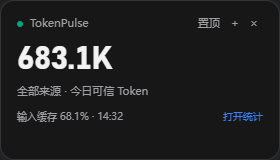
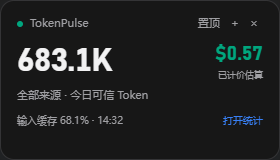
design: add scoped cost estimates to floating windows

diff --git a/prototypes/token-pulse-ui.html b/prototypes/token-pulse-ui.html
@@ -11,6 +11,7 @@
 :root{--bg:#e9e9eb;--panel:#fff;--sub:#f3f3f4;--ink:#242426;--muted:#727277;--line:#e0e0e3;--blue:#347cf5;--blue-soft:#edf3ff;--green:#009f78}
 .theme-dark{--bg:#202020;--panel:#171717;--sub:#242424;--ink:#f2f2f3;--muted:#a0a0a4;--line:#343436;--blue:#3880f6;--blue-soft:#23334d;--cache:#78a7fa;--output:#a4a6ad;--green:#00a67e;--amber:#d9b16d;--warn:#342d21;--shadow:0 16px 50px #0002}
 .desktop{border-color:var(--line);box-shadow:none}.main{background:var(--bg)}.panel{border-radius:14px}.nav button.active{background:#087dc7;color:#fff}.cost-number{color:var(--green);font-weight:650}.big-number{font-weight:650}.theme-dark button.primary{color:#fff}.theme-dark .pulse{color:#fff}.theme-dark .pill.live{background:#15342a;color:#24b893}.theme-dark .drawer,.theme-dark .modal{background:#202020}.theme-dark select,.theme-dark input{background:var(--sub)}.theme-dark .notice{border:1px solid #4a3d27}.theme-dark .segments button.active{background:#333335;color:var(--ink);box-shadow:none}.floating{border-color:var(--line);border-radius:14px}.float-number{font-weight:650}.nav-label{display:inline}
+.float-metrics{display:flex;align-items:center;justify-content:space-between;gap:10px;margin:8px 0 5px}.float-metrics .float-number{margin:0;min-width:0}.float-cost{border:0;background:transparent;padding:0;text-align:right;flex-shrink:0;max-width:100px}.float-cost-value{display:block;color:var(--green);font-size:20px;font-weight:650;line-height:1.2;overflow-wrap:anywhere}.float-cost-label{display:block;color:var(--muted);font-size:9px;line-height:1.4;margin-top:3px}.float-cost:hover{background:transparent}.floating.expanded .float-cost-value{font-size:22px}
 </style>
 </head>
 <body class="theme-dark">
@@ -87,10 +88,10 @@ function render(){renderNav();renderFilters();$('page-title').textContent=pages[
 let lastFocus=null;function openModal(title,body,actions=''){lastFocus=document.activeElement;$('overlays').innerHTML=`<div class="backdrop" data-backdrop="true"><section class="modal" role="dialog" aria-modal="true" aria-labelledby="dialog-title"><div class="modal-head"><h2 id="dialog-title">${title}</h2><button class="ghost small" data-action="dismiss" aria-label="关闭对话框">×</button></div>${body}<div class="modal-actions"><button data-action="dismiss">关闭</button>${actions}</div></section></div>`;protectSensitive();requestAnimationFrame(()=>$('overlays').querySelector('input,select,button')?.focus());}
 function protectSensitive(){if(!state.privacy)return;document.querySelectorAll('.sensitive').forEach(el=>el.textContent='已隐藏');document.querySelectorAll('[data-session][aria-label]').forEach(el=>el.setAttribute('aria-label','查看会话统计'));}function dismiss(){$('overlays').innerHTML='';lastFocus?.focus();}
 function openSession(id){const s=sessionDefs.find(s=>s.id===id),rows=filtered().filter(e=>e.session.id===id),a=sum(rows);lastFocus=document.activeElement;$('overlays').innerHTML=`<div class="backdrop" data-backdrop="true"></div><aside class="drawer" role="dialog" aria-modal="true" aria-labelledby="dialog-title"><div class="modal-head"><h2 id="dialog-title">会话详情</h2><button class="ghost" data-action="dismiss" aria-label="关闭会话详情">×</button></div><h2 class="sensitive">${esc(s.name)}</h2><p class="muted sensitive" style="font-size:12px;margin:7px 0 25px">${esc(s.project)}</p><span class="metric-label">所选日期范围累计消耗</span><div class="big-number num">${compact(a.total)}<span>Token</span></div>${composition(a)}<section class="context"><h3>最近请求上下文</h3><div class="num" style="font-size:28px;margin-top:9px">${compact(s.context)} <span class="muted" style="font-size:12px">${s.window?'/ '+compact(s.window):'· 窗口容量未知'}</span></div>${s.window?`<div class="progress" style="margin-top:10px"><span style="width:${s.context/s.window*100}%"></span></div>`:''}<p class="support-note">${s.window?'占模型窗口 '+percent(s.context,s.window)+'。':'缺少可信容量，不展示占用百分比。'}<br>快照：2026-10-01 14:12 · 来自最近请求记录<br>此快照与累计消耗分别计算。</p></section><section><h3>会话信息</h3><dl><dt>模型</dt><dd>${s.model}</dd><dt>来源</dt><dd>${s.source}</dd><dt>项目路径</dt><dd class="sensitive">${esc(s.path||'未知')}</dd><dt>父会话</dt><dd class="sensitive">${s.parent?'修复会话恢复逻辑':'无已记录父会话'}</dd><dt>用户回合</dt><dd>${s.turns??'未知'}</dd></dl></section><section><h3>最近用量事件</h3>${rows.slice(-3).reverse().map(e=>`<div class="setting-row"><div><span class="num">${e.hour}:${e.minute}</span><p>${e.basis} · 输出含推理 ${compact(e.reasoning)}</p></div><span class="num">${compact(e.total)}</span></div>`).join('')}</section><button class="small" data-action="locate-log" style="margin-top:25px">定位来源日志</button></aside>`;protectSensitive();requestAnimationFrame(()=>$('overlays').querySelector('button')?.focus());}
-function renderFloat(){const rows=events.filter(e=>e.date==='2026-10-01'&&(state.pinned==='all'||e.session.id===state.pinned)),a=['empty','zero'].includes(state.demo)?sum([]):sum(rows),s=sessionDefs.find(s=>s.id===state.pinned);$('floating-stage').innerHTML=`<section class="floating ${state.expanded?'expanded':''}" aria-label="悬浮小窗预览"><div class="float-head" id="float-drag"><span><span class="dot"></span>${state.demo==='stale'?'部分来源待恢复':state.demo==='loading'?'历史导入中':'TokenPulse'}</span><div class="float-actions"><button data-action="pin-window" aria-label="切换悬浮窗置顶">${preferences['悬浮窗置顶']?'置顶':'未置顶'}</button><button data-action="expand-float" aria-label="${state.expanded?'收起':'展开'}悬浮窗">${state.expanded?'−':'+'}</button><button data-action="hide-float" aria-label="隐藏悬浮窗">×</button></div></div><button class="float-number num" data-action="float-breakdown" title="${full(a.total)} Token">${state.demo==='empty'?'选择目录':compact(a.total)}</button><span class="float-scope ${s?'sensitive':''}">${state.demo==='empty'?'未配置来源':s?esc(s.project)+' · 今日会话消耗':'全部来源 · 今日可信 Token'}</span><div class="float-bottom"><span>输入缓存 ${percent(a.cache,a.input)} · ${state.demo==='stale'?'13:58':'14:32'}</span><button data-action="open-from-float">打开统计</button></div>${state.expanded?`<div class="float-more">${composition(a)}<select id="pin-session" aria-label="固定会话"><option value="all">全部来源 · 今日用量</option>${sessionDefs.map(s=>`<option value="${s.id}" ${state.pinned===s.id?'selected':''}>固定：${state.privacy?'会话 '+s.id:esc(s.project)}</option>`).join('')}</select><p>${s?'固定会话 · 消耗起点为今日 00:00':'最近记录 14:12 · 无新记录仍保持采集'}</p></div>`:''}</section>`;const handle=$('float-drag');handle.onpointerdown=(e)=>{if(e.target.closest('button'))return;const el=$('floating-stage'),r=el.getBoundingClientRect(),dx=e.clientX-r.left,dy=e.clientY-r.top;handle.setPointerCapture(e.pointerId);handle.onpointermove=(ev)=>{el.style.left=Math.max(0,Math.min(innerWidth-el.offsetWidth,ev.clientX-dx))+'px';el.style.top=Math.max(0,Math.min(innerHeight-el.offsetHeight,ev.clientY-dy))+'px';el.style.right='auto';el.style.bottom='auto';};handle.onpointerup=()=>{handle.onpointermove=null;};};}
+function renderFloat(){const rows=events.filter(e=>e.date==='2026-10-01'&&(state.pinned==='all'||e.session.id===state.pinned)),a=['empty','zero'].includes(state.demo)?sum([]):sum(rows),s=sessionDefs.find(s=>s.id===state.pinned);$('floating-stage').innerHTML=`<section class="floating ${state.expanded?'expanded':''}" aria-label="悬浮小窗预览"><div class="float-head" id="float-drag"><span><span class="dot"></span>${state.demo==='stale'?'部分来源待恢复':state.demo==='loading'?'历史导入中':'TokenPulse'}</span><div class="float-actions"><button data-action="pin-window" aria-label="切换悬浮窗置顶">${preferences['悬浮窗置顶']?'置顶':'未置顶'}</button><button data-action="expand-float" aria-label="${state.expanded?'收起':'展开'}悬浮窗">${state.expanded?'−':'+'}</button><button data-action="hide-float" aria-label="隐藏悬浮窗">×</button></div></div><div class="float-metrics"><button class="float-number num" data-action="float-breakdown" title="${full(a.total)} Token">${state.demo==='empty'?'选择目录':compact(a.total)}</button><button class="float-cost cost-sensitive" data-action="float-price" ${state.demo==='empty'?'disabled':''} title="${state.demo==='empty'?'尚未配置来源':a.unpriced&&a.unpriced===a.total?'所有用量均缺少价格规则':'价格覆盖 '+percent(a.total-a.unpriced,a.total)+'；未计价 '+full(a.unpriced)+' Token'}"><span class="float-cost-value num">${state.demo==='empty'?'—':a.total&&a.unpriced===a.total?'未计价':money(a.cost)}</span><span class="float-cost-label">已计价估算</span></button></div><span class="float-scope ${s?'sensitive':''}">${state.demo==='empty'?'未配置来源':s?esc(s.project)+' · 今日会话消耗':'全部来源 · 今日可信 Token'}</span><div class="float-bottom"><span>输入缓存 ${percent(a.cache,a.input)} · ${state.demo==='stale'?'13:58':'14:32'}</span><button data-action="open-from-float">打开统计</button></div>${state.expanded?`<div class="float-more">${composition(a)}<select id="pin-session" aria-label="固定会话"><option value="all">全部来源 · 今日用量</option>${sessionDefs.map(s=>`<option value="${s.id}" ${state.pinned===s.id?'selected':''}>固定：${state.privacy?'会话 '+s.id:esc(s.project)}</option>`).join('')}</select><p>${s?'固定会话 · 消耗起点为今日 00:00':'最近记录 14:12 · 无新记录仍保持采集'}</p></div>`:''}</section>`;protectSensitive();const handle=$('float-drag');handle.onpointerdown=(e)=>{if(e.target.closest('button'))return;const el=$('floating-stage'),r=el.getBoundingClientRect(),dx=e.clientX-r.left,dy=e.clientY-r.top;handle.setPointerCapture(e.pointerId);handle.onpointermove=(ev)=>{el.style.left=Math.max(0,Math.min(innerWidth-el.offsetWidth,ev.clientX-dx))+'px';el.style.top=Math.max(0,Math.min(innerHeight-el.offsetHeight,ev.clientY-dy))+'px';el.style.right='auto';el.style.bottom='auto';};handle.onpointerup=()=>{handle.onpointermove=null;};};}
 function setTheme(value){state.theme=value;const dark=value==='dark'||value==='system'&&matchMedia('(prefers-color-scheme: dark)').matches;document.body.classList.toggle('theme-dark',dark);$('theme').textContent=dark?'浅色预览':'深色预览';render();}
 function exportFile(){const format=$('export-format').value,hide=$('hide-path').checked;const rows=filtered().map(e=>({timestamp:`${e.date}T${String(e.hour).padStart(2,'0')}:${e.minute}:00+08:00`,session_id:e.session.id,project:hide?'项目-'+e.session.id:e.session.project,project_path:hide?null:e.session.path,model:e.session.model,input_tokens_total:String(e.input),cached_input_tokens:String(e.cache),output_tokens_total:String(e.output),reasoning_output_tokens:String(e.reasoning),total_tokens:String(e.total),estimated_cost_usd:e.cost,unpriced:e.cost==null,price_rule_id:e.cost==null?null:'fictional-demo-rule',estimation_mode:'event_time',basis:e.basis}));let content,type;if(format==='json'){content=JSON.stringify({demo:true,timezone:'Asia/Shanghai',snapshot:'demo-2026-10-01-1432',parser_version:'prototype-fixture',filters:{period:state.period,start:state.start,end:state.end,source:state.source,model:state.model,project:state.project},rows},null,2);type='application/json';}else{const headers=Object.keys(rows[0]||{timestamp:'',total_tokens:''});const quote=v=>{let s=String(v??'');if(/^[=+@-]/.test(s))s="'"+s;return '"'+s.replace(/"/g,'""')+'"';};content='\uFEFF'+headers.join(',')+'\r\n'+rows.map(r=>headers.map(k=>quote(r[k])).join(',')).join('\r\n');type='text/csv;charset=utf-8';}const link=document.createElement('a');link.href=URL.createObjectURL(new Blob([content],{type}));link.download='token-pulse-demo.'+format;link.click();setTimeout(()=>URL.revokeObjectURL(link.href),1000);dismiss();toast(`已导出 ${rows.length} 条演示记录（${format.toUpperCase()}）`);}
-function action(a){switch(a){case'dismiss':dismiss();break;case'float':state.float=true;$('floating-stage').classList.remove('hidden');renderFloat();break;case'hide-float':state.float=false;$('floating-stage').classList.add('hidden');toast('悬浮窗已隐藏；正式应用中后台继续采集。');break;case'expand-float':state.expanded=!state.expanded;renderFloat();break;case'float-breakdown':if(state.demo==='empty'){action('add-source');break;}state.expanded=true;renderFloat();break;case'pin-window':preferences['悬浮窗置顶']=!preferences['悬浮窗置顶'];renderFloat();toast('置顶偏好已更新（预览）；原生置顶由桌面壳实现。');break;case'open-from-float':state.page=state.pinned==='all'?'overview':'sessions';state.period='today';state.source='all';state.model='all';state.project='all';render();if(state.pinned!=='all')openSession(state.pinned);break;case'reset':state.period='today';state.grain='hour';state.source=state.model=state.project='all';eventPage=1;render();break;case'refresh':$('refresh').textContent='正在核对…';$('refresh').disabled=true;setTimeout(()=>{$('refresh').textContent='核对来源';$('refresh').disabled=false;toast('演示核对完成。原型未访问本机日志。');},700);break;case'retry':state.demo='ready';$('demo-state').value='ready';render();toast('演示查询已恢复。');break;case'export':openModal('导出当前筛选',`<p>将导出 ${filtered().length} 条演示记录。日期、来源、模型和项目条件与当前页面一致。</p><label for="export-format">文件格式</label><select id="export-format"><option value="csv">CSV · 适合表格分析</option><option value="json">JSON · 包含口径与筛选信息</option></select><label><input type="checkbox" id="hide-path" ${state.privacy?'checked':''} style="width:auto"> 隐藏项目名称与路径</label><p>费用均使用虚构价格。JSON 包含时区、快照、价格规则与未计价标记；CSV 保留逐条口径与规则标记。</p>`,'<button class="primary" data-action="download">导出演示数据</button>');break;case'download':exportFile();break;case'cache-detail':openModal('输入缓存占比','<p>缓存占比 = 缓存输入 / 输入总数。</p><p>当前筛选：缓存 '+full(stats().cache)+' Token，输入总数 '+full(stats().input)+' Token，占比 '+percent(stats().cache,stats().input)+'。</p><p>缓存已经包含在输入总数中，不再次计入总量。</p>');break;case'prices':openModal('费用与价格依据','<p>费用表示已计价用量的等价价格估算。订阅实付和账户剩余额度不由本工具推断。</p><div class="notice">演示价格：输入 $1.20、缓存 $0.12、输出 $6.00 / 百万 Token。均为虚构系数。</div><p>非缓存输入 × 输入单价 + 缓存输入 × 缓存单价 + 输出总数 × 输出单价。</p><p>推理已包含在输出中，不再次计价。未知价格保持未计价，并保留在可信总量中。</p><p>正式应用展示：规则来源、生效时间、别名匹配、价格覆盖率和最近重算时间。</p>','<button class="primary" data-action="open-pricing">管理价格规则</button>');break;case'open-pricing':dismiss();state.page='settings';state.settingsTab='pricing';render();break;case'add-source':openModal('添加 Codex 数据来源','<p>原型仅演示目录确认步骤。正式应用使用系统目录选择器，再检测目录可读性与重复来源。</p><label for="source-path">Codex Home 路径</label><input id="source-path" placeholder="例如 C:/Users/你的用户名/.codex"><p>扫描 sessions 和 archived_sessions。不会读取 auth.json，也不会修改原始日志。</p>','<button class="primary" data-action="confirm-source">检测演示目录</button>');break;case'confirm-source':if(!$('source-path').value.trim()){$('source-path').setCustomValidity('请填写目录路径');$('source-path').reportValidity();return;}dismiss();state.demo='loading';$('demo-state').value='loading';state.page='diagnostics';render();toast('进入导入预览；未添加真实来源。');break;case'pause-source':sourcePaused=!sourcePaused;render();toast(sourcePaused?'演示来源已暂停；统计保留。':'演示来源已恢复。');break;case'check-source':toast('演示目录可读；未访问真实文件。');break;case'pause-import':importPaused=!importPaused;render();toast(importPaused?'演示导入已暂停。':'演示导入已继续。');break;case'remove-source':openModal('移除来源','<p>正式应用提供“停止采集并保留统计”和“清除本工具保存的该来源数据”两种选项。</p><p>任何选项均不会删除 Codex 原始日志。本原型仅展示影响范围。</p>');break;case'diagnostic-detail':openModal('计数歧义定位','<p class="sensitive">来源：Windows 本地 · token-pulse</p><dl><dt>文件代次</dt><dd>demo-generation-3</dd><dt>字节偏移</dt><dd>42,816</dd><dt>问题</dt><dd>累计值可匹配多个计数流，无法唯一确定新增用量。</dd></dl><p>待确认用量未计入总量。正式应用可定位文件、查看必要元数据或重新构建；原文采样默认关闭。</p>');break;case'rebuild':openModal('重建指定来源','<p>重新读取所选来源，验证候选结果后切换统计。重建期间仍可查看原结果。</p><label for="rebuild-source">数据来源</label><select id="rebuild-source"><option>Windows 本地</option><option>WSL · Ubuntu</option></select><p>原型演示任务反馈，不重读或写入任何真实文件。</p>','<button class="primary" data-action="confirm-rebuild">演示重建</button>');break;case'confirm-rebuild':dismiss();toast('演示重建已完成；原始日志未访问。');break;case'backup':openModal('创建备份','<p>正式应用通过一致备份保存统计库与配置，备份包含项目路径和统计记录。</p><p>原型尚未接入数据库，不生成真实备份。</p>');break;case'clear-data':openModal('清除数据的影响范围','<p>正式应用分别提供清除缓存、运行日志、诊断样本或全部统计数据的操作。</p><p>清除账本需要明确确认，并在安全停止任务后执行。显示设置恢复默认不清空统计。</p><p>本原型不会删除任何数据。</p>');break;case'passthrough':openModal('鼠标穿透与恢复','<p>启用后，点击将传递到悬浮窗下方的窗口。</p><p>正式应用先注册并校验恢复快捷键；若发生冲突，保留原状态并提示更换快捷键。托盘始终提供“恢复悬浮窗交互”。</p><p>浏览器原型只演示说明，无法实现系统级穿透。</p>');break;case'locate-log':toast('正式应用会定位来源文件；原型未打开真实日志。');break;case'prev-events':eventPage=Math.max(1,eventPage-1);render();break;case'next-events':eventPage++;render();break;case'close-main':case'minimize':toast('正式应用中窗口隐藏，后台采集继续；托盘提供恢复和退出。');break;case'maximize':toast('统计窗口默认 1280 × 860 DIP，最小 960 × 680 DIP。');break;}}
+function action(a){switch(a){case'dismiss':dismiss();break;case'float':state.float=true;$('floating-stage').classList.remove('hidden');renderFloat();break;case'hide-float':state.float=false;$('floating-stage').classList.add('hidden');toast('悬浮窗已隐藏；正式应用中后台继续采集。');break;case'expand-float':state.expanded=!state.expanded;renderFloat();break;case'float-breakdown':if(state.demo==='empty'){action('add-source');break;}state.expanded=true;renderFloat();break;case'pin-window':preferences['悬浮窗置顶']=!preferences['悬浮窗置顶'];renderFloat();toast('置顶偏好已更新（预览）；原生置顶由桌面壳实现。');break;case'open-from-float':state.page=state.pinned==='all'?'overview':'sessions';state.period='today';state.source='all';state.model='all';state.project='all';render();if(state.pinned!=='all')openSession(state.pinned);break;case'reset':state.period='today';state.grain='hour';state.source=state.model=state.project='all';eventPage=1;render();break;case'refresh':$('refresh').textContent='正在核对…';$('refresh').disabled=true;setTimeout(()=>{$('refresh').textContent='核对来源';$('refresh').disabled=false;toast('演示核对完成。原型未访问本机日志。');},700);break;case'retry':state.demo='ready';$('demo-state').value='ready';render();toast('演示查询已恢复。');break;case'export':openModal('导出当前筛选',`<p>将导出 ${filtered().length} 条演示记录。日期、来源、模型和项目条件与当前页面一致。</p><label for="export-format">文件格式</label><select id="export-format"><option value="csv">CSV · 适合表格分析</option><option value="json">JSON · 包含口径与筛选信息</option></select><label><input type="checkbox" id="hide-path" ${state.privacy?'checked':''} style="width:auto"> 隐藏项目名称与路径</label><p>费用均使用虚构价格。JSON 包含时区、快照、价格规则与未计价标记；CSV 保留逐条口径与规则标记。</p>`,'<button class="primary" data-action="download">导出演示数据</button>');break;case'download':exportFile();break;case'cache-detail':openModal('输入缓存占比','<p>缓存占比 = 缓存输入 / 输入总数。</p><p>当前筛选：缓存 '+full(stats().cache)+' Token，输入总数 '+full(stats().input)+' Token，占比 '+percent(stats().cache,stats().input)+'。</p><p>缓存已经包含在输入总数中，不再次计入总量。</p>');break;case'float-price':{const rows=events.filter(e=>e.date==='2026-10-01'&&(state.pinned==='all'||e.session.id===state.pinned)),a=state.demo==='zero'?sum([]):sum(rows),session=sessionDefs.find(x=>x.id===state.pinned);openModal('悬浮窗费用估算',`<p class="${session?'sensitive':''}">${session?esc(session.project)+' · 今日会话消耗':'全部来源 · 今日用量'}</p><p>已计价部分估算：<strong class="num cost-sensitive">${a.total&&a.unpriced===a.total?'未计价':money(a.cost)}</strong></p><p>价格覆盖 ${percent(a.total-a.unpriced,a.total)}；未计价 ${full(a.unpriced)} Token。</p><p>费用与悬浮窗中的用量采用同一统计范围。原型使用虚构价格，正式应用为等价价格估算。</p>`,'<button class="primary" data-action="open-pricing">管理价格规则</button>');break;}case'prices':openModal('费用与价格依据','<p>费用表示已计价用量的等价价格估算。订阅实付和账户剩余额度不由本工具推断。</p><div class="notice">演示价格：输入 $1.20、缓存 $0.12、输出 $6.00 / 百万 Token。均为虚构系数。</div><p>非缓存输入 × 输入单价 + 缓存输入 × 缓存单价 + 输出总数 × 输出单价。</p><p>推理已包含在输出中，不再次计价。未知价格保持未计价，并保留在可信总量中。</p><p>正式应用展示：规则来源、生效时间、别名匹配、价格覆盖率和最近重算时间。</p>','<button class="primary" data-action="open-pricing">管理价格规则</button>');break;case'open-pricing':dismiss();state.page='settings';state.settingsTab='pricing';render();break;case'add-source':openModal('添加 Codex 数据来源','<p>原型仅演示目录确认步骤。正式应用使用系统目录选择器，再检测目录可读性与重复来源。</p><label for="source-path">Codex Home 路径</label><input id="source-path" placeholder="例如 C:/Users/你的用户名/.codex"><p>扫描 sessions 和 archived_sessions。不会读取 auth.json，也不会修改原始日志。</p>','<button class="primary" data-action="confirm-source">检测演示目录</button>');break;case'confirm-source':if(!$('source-path').value.trim()){$('source-path').setCustomValidity('请填写目录路径');$('source-path').reportValidity();return;}dismiss();state.demo='loading';$('demo-state').value='loading';state.page='diagnostics';render();toast('进入导入预览；未添加真实来源。');break;case'pause-source':sourcePaused=!sourcePaused;render();toast(sourcePaused?'演示来源已暂停；统计保留。':'演示来源已恢复。');break;case'check-source':toast('演示目录可读；未访问真实文件。');break;case'pause-import':importPaused=!importPaused;render();toast(importPaused?'演示导入已暂停。':'演示导入已继续。');break;case'remove-source':openModal('移除来源','<p>正式应用提供“停止采集并保留统计”和“清除本工具保存的该来源数据”两种选项。</p><p>任何选项均不会删除 Codex 原始日志。本原型仅展示影响范围。</p>');break;case'diagnostic-detail':openModal('计数歧义定位','<p class="sensitive">来源：Windows 本地 · token-pulse</p><dl><dt>文件代次</dt><dd>demo-generation-3</dd><dt>字节偏移</dt><dd>42,816</dd><dt>问题</dt><dd>累计值可匹配多个计数流，无法唯一确定新增用量。</dd></dl><p>待确认用量未计入总量。正式应用可定位文件、查看必要元数据或重新构建；原文采样默认关闭。</p>');break;case'rebuild':openModal('重建指定来源','<p>重新读取所选来源，验证候选结果后切换统计。重建期间仍可查看原结果。</p><label for="rebuild-source">数据来源</label><select id="rebuild-source"><option>Windows 本地</option><option>WSL · Ubuntu</option></select><p>原型演示任务反馈，不重读或写入任何真实文件。</p>','<button class="primary" data-action="confirm-rebuild">演示重建</button>');break;case'confirm-rebuild':dismiss();toast('演示重建已完成；原始日志未访问。');break;case'backup':openModal('创建备份','<p>正式应用通过一致备份保存统计库与配置，备份包含项目路径和统计记录。</p><p>原型尚未接入数据库，不生成真实备份。</p>');break;case'clear-data':openModal('清除数据的影响范围','<p>正式应用分别提供清除缓存、运行日志、诊断样本或全部统计数据的操作。</p><p>清除账本需要明确确认，并在安全停止任务后执行。显示设置恢复默认不清空统计。</p><p>本原型不会删除任何数据。</p>');break;case'passthrough':openModal('鼠标穿透与恢复','<p>启用后，点击将传递到悬浮窗下方的窗口。</p><p>正式应用先注册并校验恢复快捷键；若发生冲突，保留原状态并提示更换快捷键。托盘始终提供“恢复悬浮窗交互”。</p><p>浏览器原型只演示说明，无法实现系统级穿透。</p>');break;case'locate-log':toast('正式应用会定位来源文件；原型未打开真实日志。');break;case'prev-events':eventPage=Math.max(1,eventPage-1);render();break;case'next-events':eventPage++;render();break;case'close-main':case'minimize':toast('正式应用中窗口隐藏，后台采集继续；托盘提供恢复和退出。');break;case'maximize':toast('统计窗口默认 1280 × 860 DIP，最小 960 × 680 DIP。');break;}}
 document.addEventListener('click',e=>{const t=e.target.closest('button,[data-session],[data-backdrop]');if(!t)return;if(t.dataset.backdrop){dismiss();return;}if(t.dataset.page){state.page=t.dataset.page;render();return;}if(t.dataset.session){openSession(t.dataset.session);return;}if(t.dataset.period){if(t.dataset.period==='custom'){openModal('自定义日期范围',`<label for="date-start">开始日期</label><input type="date" id="date-start" value="${state.start}" max="2026-10-01"><label for="date-end">结束日期（含当天）</label><input type="date" id="date-end" value="${state.end}" max="2026-10-01"><p>统计时区：Asia/Shanghai。演示数据范围为 2026-09-02 至 2026-10-01。</p>`,'<button class="primary" id="apply-dates">应用日期</button>');}else{state.period=t.dataset.period;state.grain=state.period==='today'?'hour':'day';eventPage=1;render();}return;}if(t.id==='apply-dates'){const start=$('date-start').value,end=$('date-end').value;if(!start||!end||start>end){toast('开始日期必须早于或等于结束日期。');return;}state.start=start;state.end=end;state.period='custom';state.grain='day';dismiss();render();return;}if(t.dataset.grain){state.grain=t.dataset.grain;render();return;}if(t.dataset.settings){state.settingsTab=t.dataset.settings;render();return;}if(t.dataset.project){state.project=t.dataset.project;state.page='sessions';render();return;}if(t.dataset.toggle){const k=t.dataset.toggle;if(k==='隐私模式')state.privacy=!state.privacy;else{preferences[k]=!preferences[k];toast(k+'偏好已更新（仅原型内）。');}render();return;}if(t.id==='privacy'){state.privacy=!state.privacy;render();toast(state.privacy?'隐私模式已开启。':'隐私模式已关闭。');return;}if(t.id==='theme'){setTheme(document.body.classList.contains('theme-dark')?'light':'dark');return;}if(t.dataset.action)action(t.dataset.action);});
 document.addEventListener('change',e=>{const t=e.target;if(t.dataset.filter){state[t.dataset.filter]=t.value;eventPage=1;render();}if(t.id==='demo-state'){state.demo=t.value;render();}if(t.id==='session-sort'){state.sort=t.value;render();}if(t.id==='appearance-theme')setTheme(t.value);if(t.id==='pin-session'){state.pinned=t.value;renderFloat();}});
 document.addEventListener('input',e=>{if(e.target.id==='opacity'){$('floating-stage').style.opacity=e.target.value/100;}});

diff --git a/docs/design/token-pulse-ui.md b/docs/design/token-pulse-ui.md
@@ -76,8 +76,8 @@
 └─ 设置          数据来源 / 显示与窗口 / 价格规则 / 数据与备份
 
 悬浮小窗
-├─ 紧凑          今日可信总量、输入缓存占比、时间和状态
-└─ 展开          输入输出分解、全部来源 / 固定会话选择
+├─ 紧凑          今日可信总量、已计价估算、输入缓存占比、时间和状态
+└─ 展开          保留估算费用，增加输入输出分解、全部来源 / 固定会话选择
 ```
 
 模型、项目和会话不再合并为一个复杂报表入口，让三种不同的统计任务可以直接进入。采集诊断与设置放在导航下半区；导航底部固定采集状态和“显示悬浮窗”。
@@ -143,13 +143,18 @@
 ```text
 ┌────────────────────────────────┐
 │ ● TokenPulse       置顶  +  ×   │ ← 专用拖动区
-│ 683.1K                         │ ← 点击数字展开分解
+│ 683.1K                  $0.57  │ ← 数字展开分解，费用查看依据
+│                   已计价估算  │
 │ 全部来源 · 今日可信 Token      │
 │ 输入缓存 68.1% · 14:32  打开统计│
 └────────────────────────────────┘
 ```
 
 缓存占比标明“输入缓存”，分母是包含缓存的输入总数。时间是最近成功快照或最后来源记录时间，正式实现通过悬停说明区分。没有新消耗不代表采集失败。
+
+用量数字右侧增加绿色费用，标注“已计价估算”。紧凑与展开模式均显示，保持 280 × 160 和 360 × 320 DIP。金额与小窗的全部来源或固定会话采用同一范围，不受主窗口独立筛选影响。切换固定会话时费用同步变化。
+
+点击金额查看当前范围、已计价估算、价格覆盖率和未计价 Token，并可进入价格规则。全部用量都没有价格时显示“未计价”；未配置来源显示“—”；已确认零用量显示 `$0.00`。部分未计价时只汇总已计价部分，通过提示与详情说明覆盖。隐私模式同时隐藏金额和费用说明。
 
 ### 展开模式：360 × 320 DIP
 
